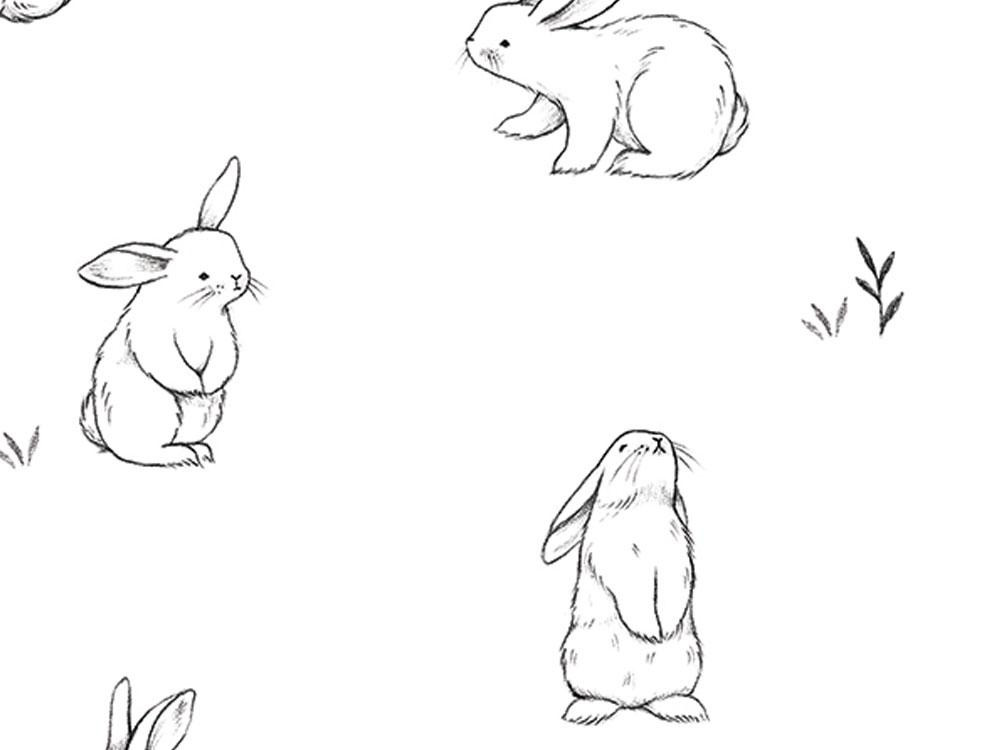
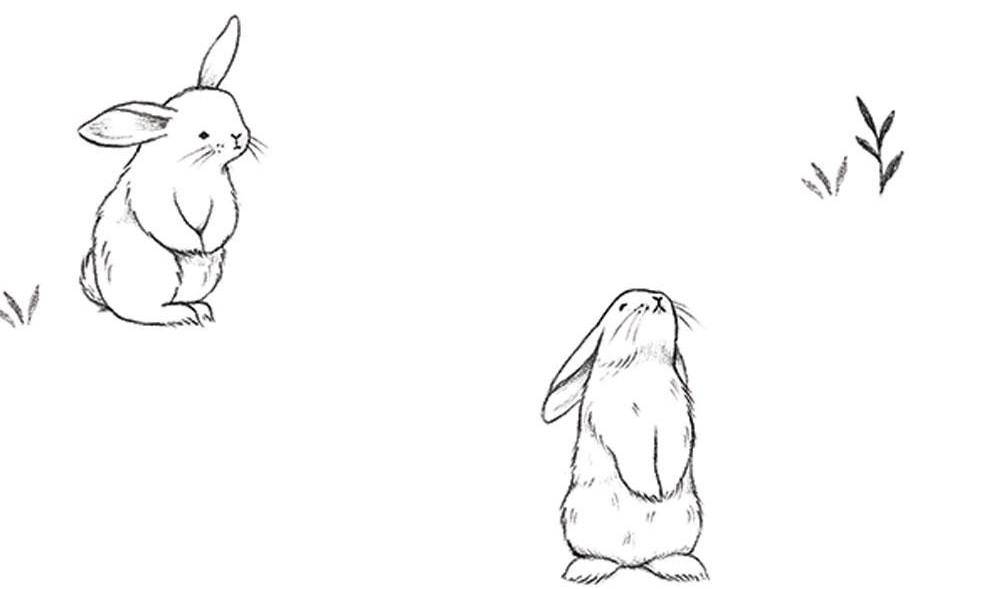
fix: responsivity & background

diff --git a/resources/public/css/common.css b/resources/public/css/common.css
@@ -16,13 +16,39 @@ html {
     background-color: var(--white);
     min-width: 1200px;
     min-height: 660px;
+    height: 100%;
 }
+
+
 body {
     color: var(--black);
     font-family: 'Lato', sans-serif;
     background: url(../img/rabbit-wallp.png) repeat;
-    font-size: 0.9rem;
+    height: 100%;
 }
+@media screen and (max-width: 1400px) {
+    body {
+	font-size: 0.9rem;
+    }
+    :root {
+	--cell-size: 21px;
+    }
+}
+@media screen and (min-width: 1400px) {
+    #lapyrinthe {
+	margin-left: 5%;
+	margin-right: 5%;
+    }
+    :root {
+	--cell-size: 23px;
+    }
+}
+@media screen and (min-width: 1600px) {
+    #lapyrinthe {
+	margin-left: 10%;
+	margin-right: 10%;
+    }
+}    
 
 a {
     cursor: pointer;

diff --git a/resources/public/css/game_board.css b/resources/public/css/game_board.css
@@ -1,15 +1,15 @@
 
 /* Playing area */
 #game-board {
-    height: calc(21px * 25);
+    height: calc(var(--cell-size) * 25);
     border-width: 5px;
 }
 
 #game-board td {
-    width: 21px;
-    height: 21px;
+    width: var(--cell-size);
+    height: var(--cell-size);
     padding: 0;
-    background-size: 21px;
+    background-size: calc(var(--cell-size) + 1px);
     background-repeat: no-repeat;
 }
 

diff --git a/resources/public/css/lapyrinthe.css b/resources/public/css/lapyrinthe.css
@@ -9,9 +9,6 @@
     text-align: center;
 }
 
-#lapyrinthe {
-    max-width: 1366px;
-}
 /* Header */
 #header {
     background-color: var(--black);
